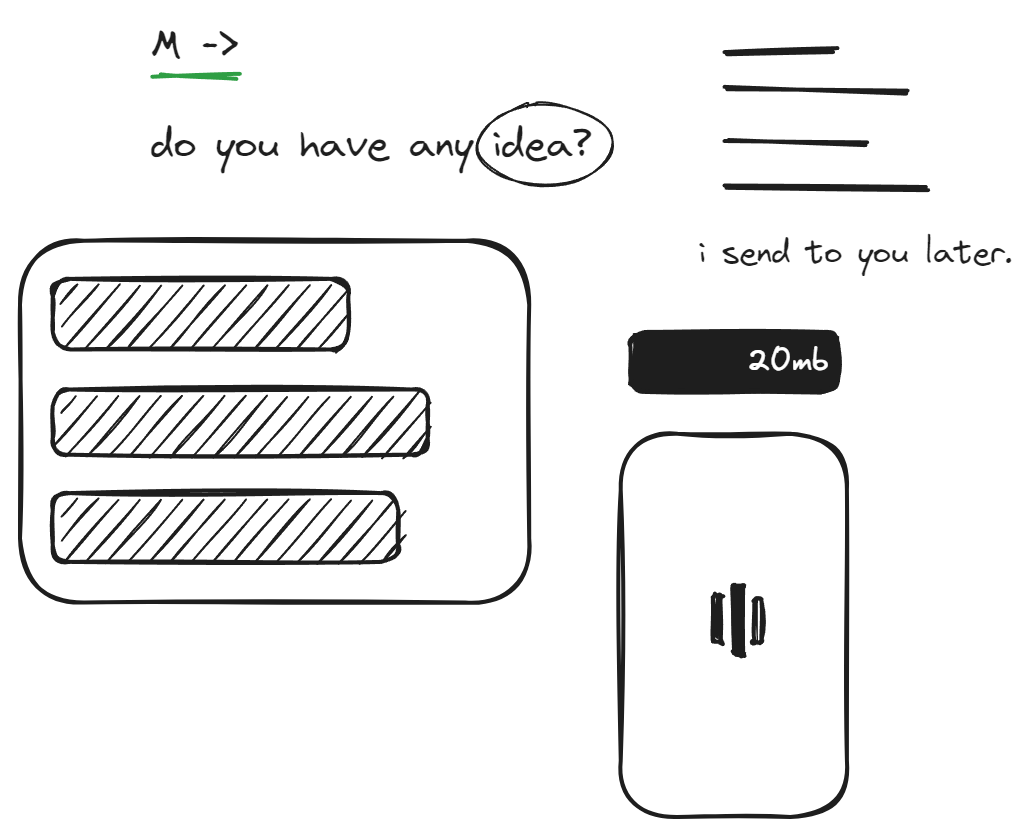
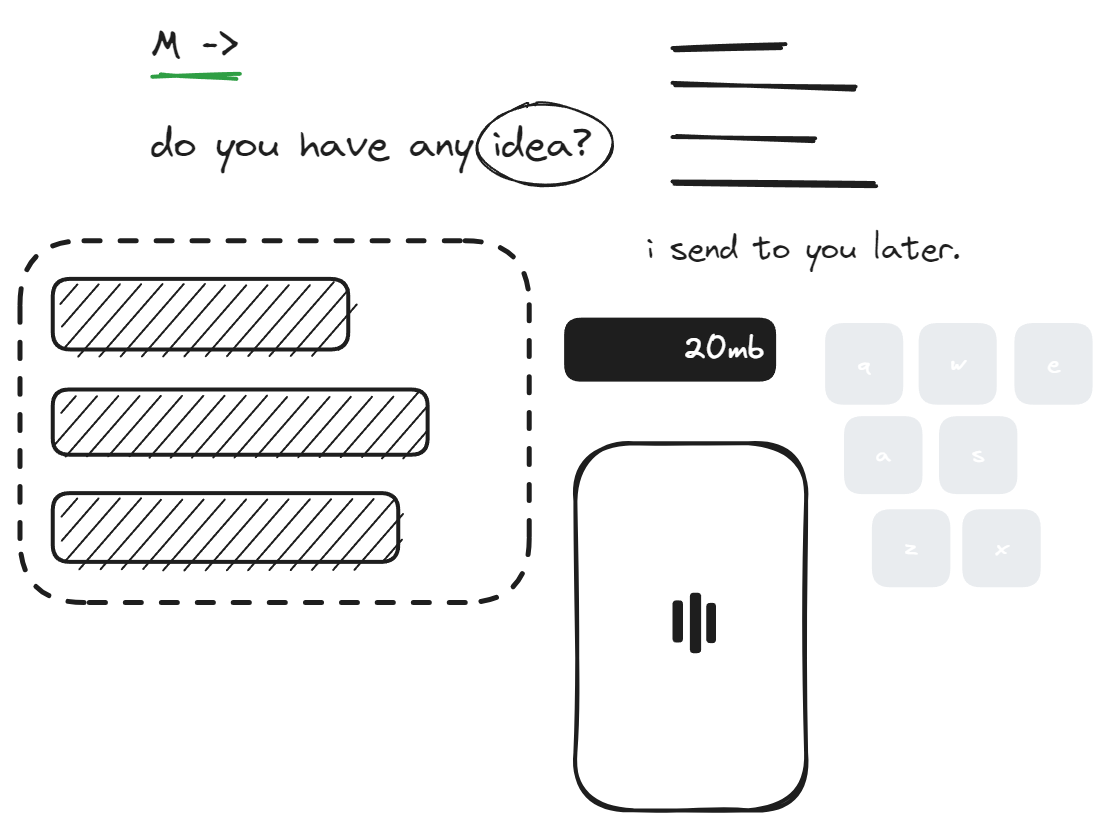
upload

diff --git a/apps/dashboard/src/pages/home/index.tsx b/apps/dashboard/src/pages/home/index.tsx
@@ -115,7 +115,7 @@ function Component() {
         <div
           className={classNameConcat([
             "w-[732px]",
-            "h-[503px]",
+            "h-[443px]",
             "bg-no-repeat",
             "bg-contain",
             "bg-center",
@@ -128,7 +128,7 @@ function Component() {
           "flex",
           "flex-row",
           "justify-center",
-          "mt-[230px]",
+          "mt-[174px]",
           "child:mx-2"
         ])}
       >
